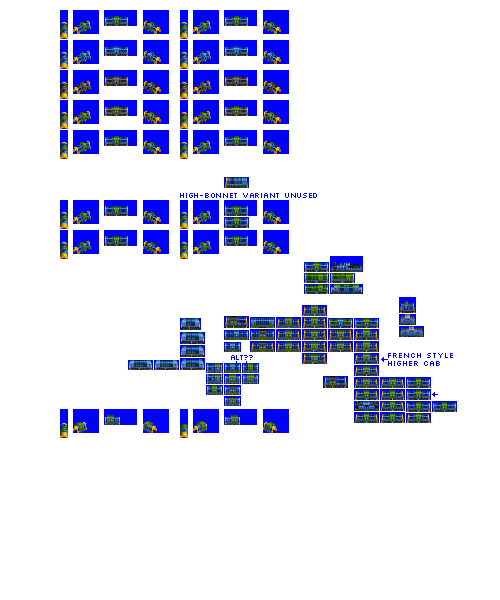
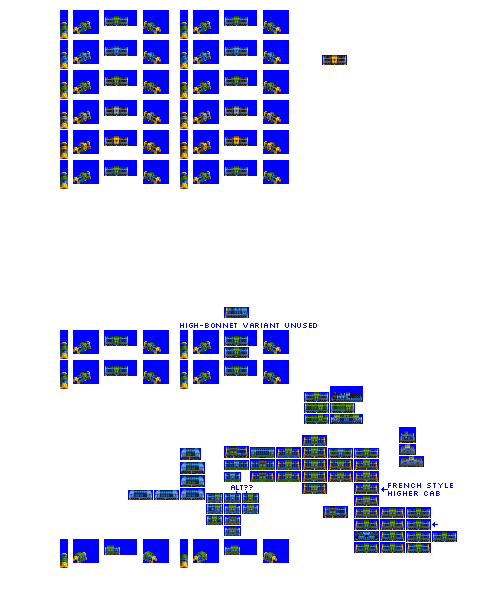
Change: adjusted Gargouille liveries

diff --git a/src/vehicles/pony/gargouille.py b/src/vehicles/pony/gargouille.py
@@ -19,7 +19,7 @@ def main(**kwargs):
         gen=3,
         intro_year_offset=-2,  # introduce a bit earlier
         extended_vehicle_life=True,  # extended vehicle life for all this generation of NG eh
-        liveries=["CONVENTIONAL_WISDOM", "BANGER_BLUE", "FREIGHT_BLACK", "WORKHORSE", "INDUSTRIAL_YELLOW"],
+        liveries=["CONVENTIONAL_WISDOM", "BANGER_BLUE", "WORKHORSE", "FREIGHT_BLACK", "WORKER_BEE", "INDUSTRIAL_YELLOW"],
         sprites_complete=True,
     )
 
